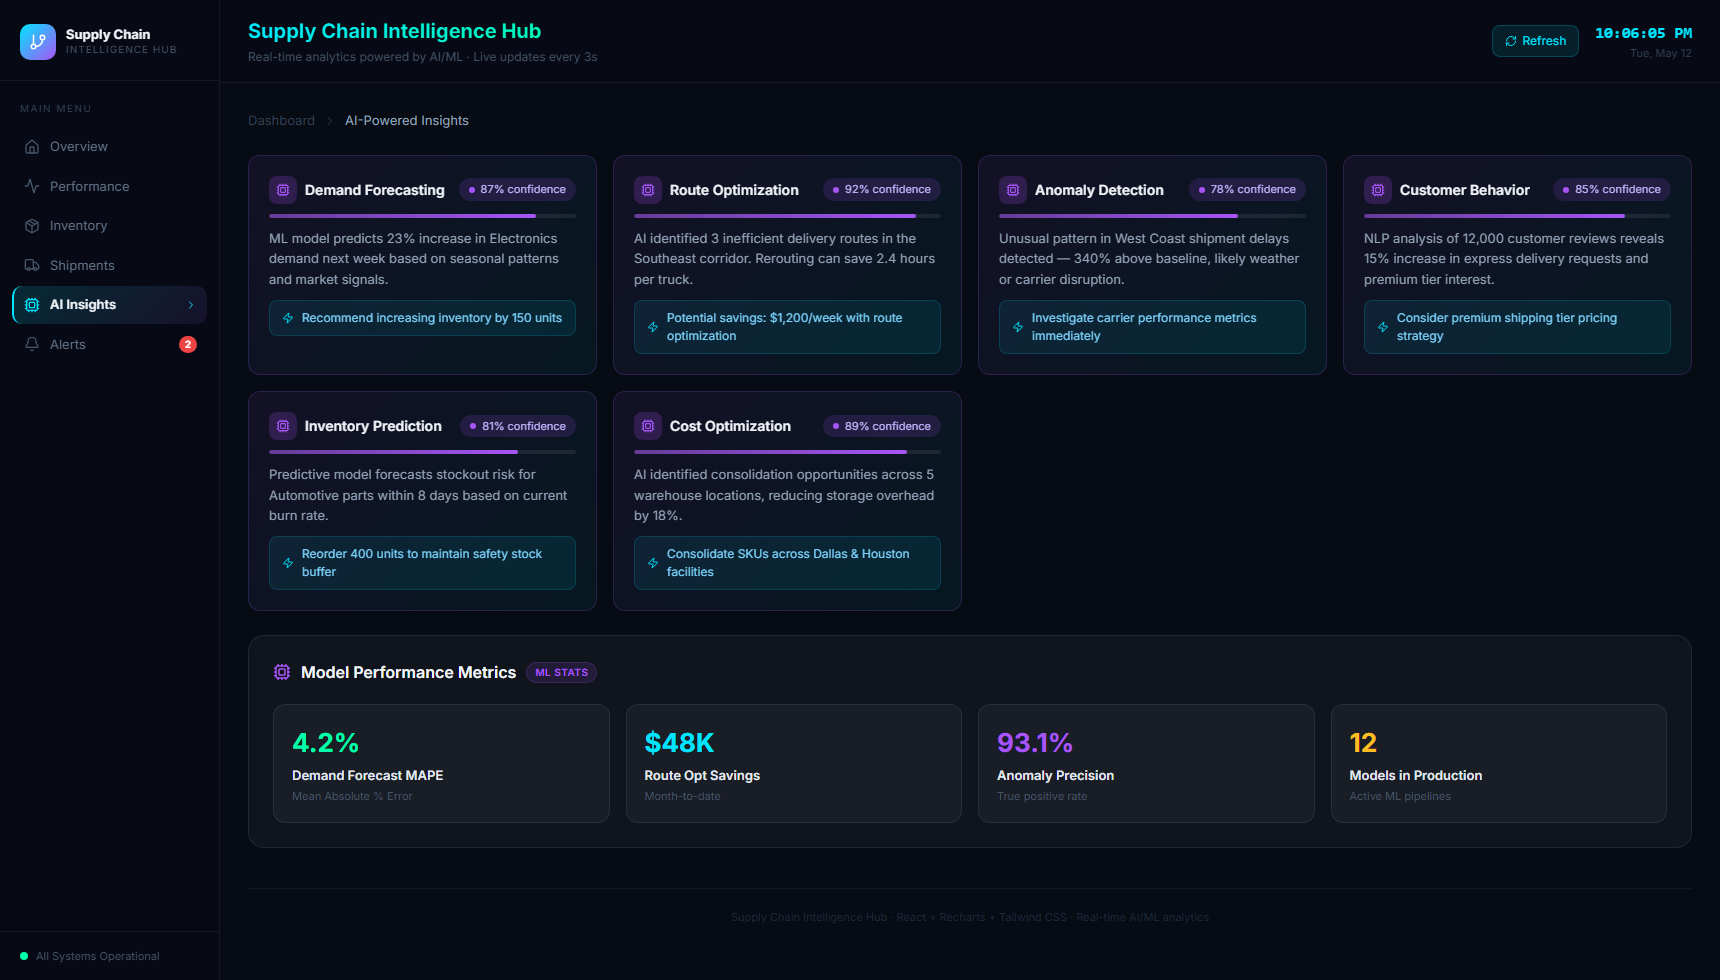
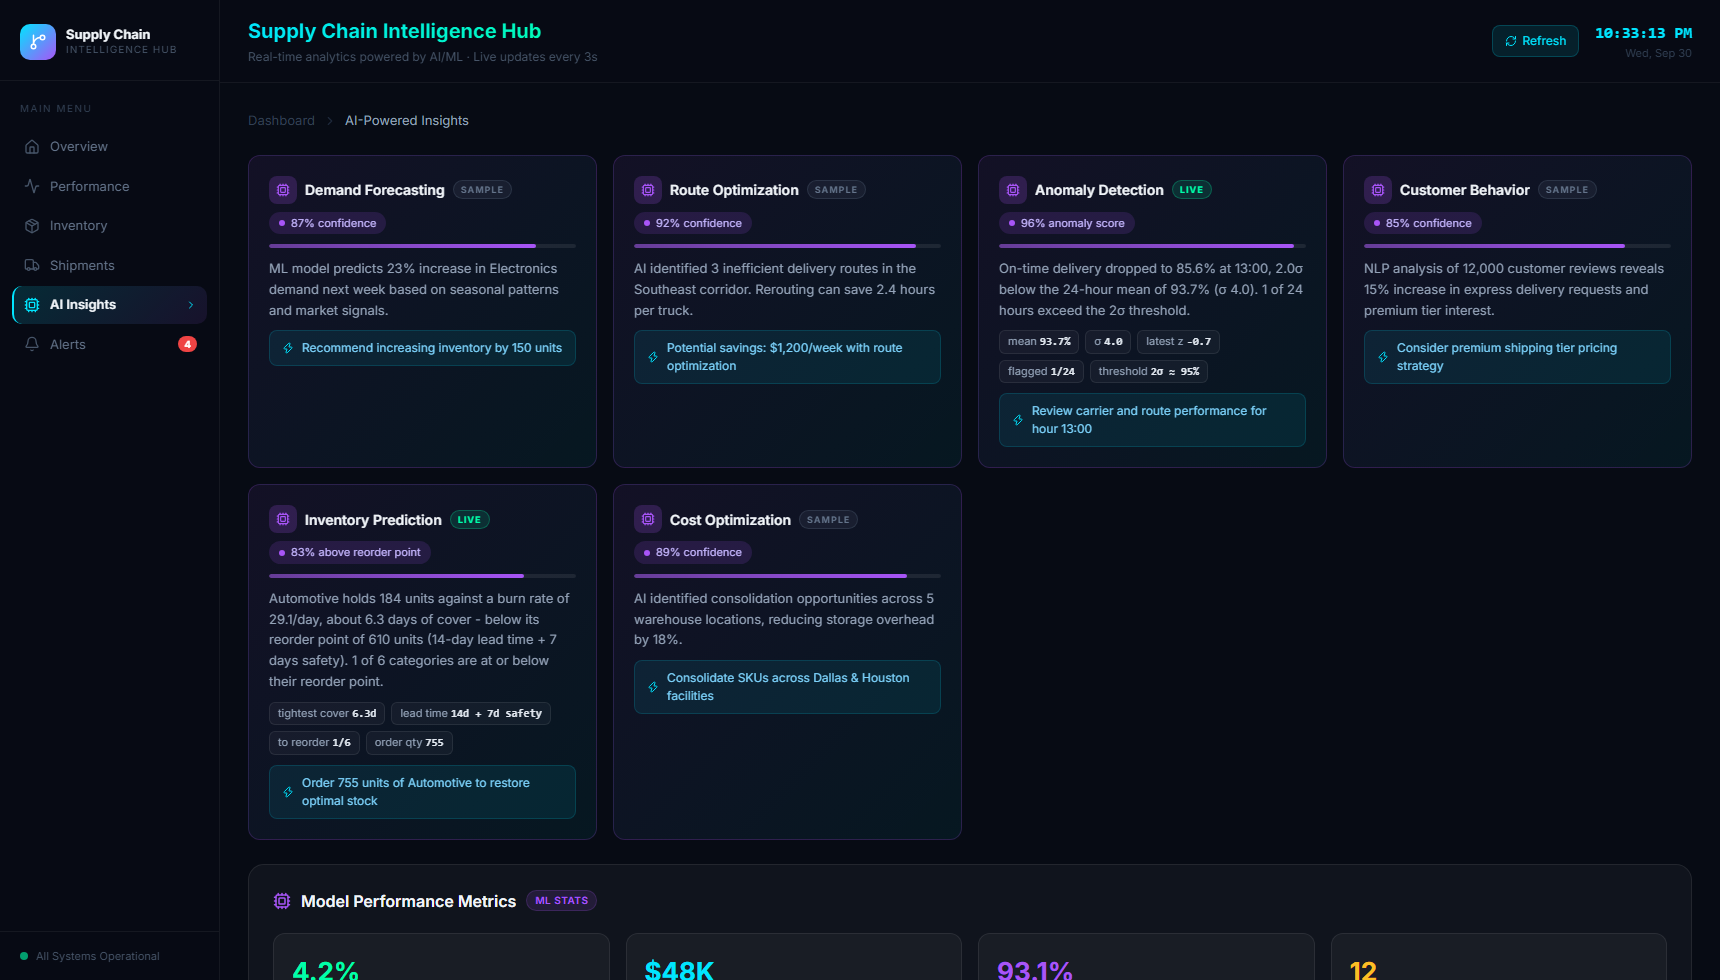
docs: add phone screenshot, refresh all screenshots, describe both live insights
The screenshot script now also captures the overview at 390px (2x scale)
as docs/screenshots/mobile-overview.png; all captures are regenerated so
they show the LIVE/SAMPLE tags, the two computed cards and the corrected
cost trend colour.

diff --git a/README.md b/README.md
@@ -32,8 +32,8 @@ This project showcases key capabilities for **Client Success AI/Data Engineer** 
 - **Hosting**: GitHub Pages, deployed automatically from `main`
 
 > **Note on data:** every metric and chart in the dashboard is generated client-side by a simulation layer
-> (`src/data/simulation.js`). There is no backend or external API. The Anomaly Detection insight is a genuine
-> statistical computation over that simulated series (`src/data/analytics.js`); the other insight cards are
+> (`src/data/simulation.js`). There is no backend or external API. The Anomaly Detection and Inventory Prediction
+> insights are genuine computations over that simulated data (`src/data/analytics.js`); the other insight cards are
 > illustrative copy and are labelled as such. The project demonstrates dashboard architecture, real-time state
 > handling, analytics, and visualization design rather than a connection to a live supply chain system.
 
@@ -45,8 +45,9 @@ This project showcases key capabilities for **Client Success AI/Data Engineer** 
 - Cost per Shipment, Warehouse Utilization, Customer Rating
 
 ### **AI-Powered Insights**
-- **Anomaly detection (live, computed)** – every refresh, the 24-hour on-time delivery series is scored with z-scores against its own mean and standard deviation. Hours beyond 2σ are flagged, the most extreme hour is described with its magnitude, an anomaly score is derived from the normal tail probability, and the card lists the hours to investigate. The simulated feed injects occasional disruptions so there is something real to find. Implementation and tests: `src/data/analytics.js`.
-- Demand forecasting, route optimization, customer behaviour and cost cards are **illustrative samples** and are tagged `SAMPLE` in the UI; the live card is tagged `LIVE`.
+- **Anomaly detection (live, computed)** – every refresh, the 24-hour on-time delivery series is scored with z-scores against its own mean and standard deviation. Hours beyond 2σ are flagged, the most extreme hour is described with its magnitude, an anomaly score is derived from the normal tail probability, and the card lists the hours to investigate. The simulated feed injects occasional disruptions so there is something real to find.
+- **Inventory prediction (live, computed)** – each category's daily burn rate is derived from its optimal stock and annual turnover (optimal × turnover ÷ 365). The reorder point is burn rate × (14-day lead time + 7 days safety stock). Categories at or below it are flagged with days of cover and the order quantity needed to return to optimal; the headline figure is the share of categories still above their reorder point. The simulation consumes about a day of stock per refresh and restocks a category when it runs low, so the card cycles through healthy and reorder states over a session.
+- Both live computations live in `src/data/analytics.js` with reference-value and scenario tests. Demand forecasting, route optimization, customer behaviour and cost cards are **illustrative samples** and are tagged `SAMPLE` in the UI; the live cards are tagged `LIVE`.
 
 ### **Executive Reporting**
 - Interactive charts (Area, Bar, Pie) for data visualization
@@ -103,6 +104,13 @@ This project showcases key capabilities for **Client Success AI/Data Engineer** 
 
 ### Alerts
 ![Alerts](docs/screenshots/alerts.png)
+
+### Phone layout (390px)
+On narrow screens the sidebar becomes a horizontal nav bar and every grid stacks to a single column.
+
+<img src="docs/screenshots/mobile-overview.png" alt="Overview at phone width" width="390">
+
+All screenshots are generated from the production build by `npm run screenshots:update`.
 
 ## 🤖 GitHub Actions Automation
 
